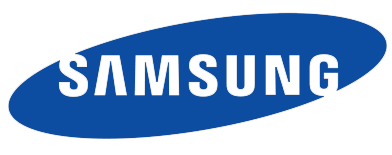
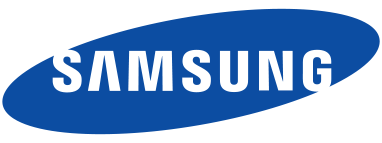
Fixed sponsors and IE problem

Changed region(s): [[0.0, 0.0559, 1.0, 0.951], [0.0576, 0.4755, 0.0864, 0.5315]]

diff --git a/js/angular/modules/schedule_glance.js b/js/angular/modules/schedule_glance.js
@@ -6,10 +6,6 @@ angular.module('chi2015_controllers').controller("schedule_glance_controller",
 
     }
 
-    var m_names = new Array("January", "February", "March", 
-                            "April", "May", "June", "July", "August", "September", 
-                            "October", "November", "December");
-
     start();
     function start(){
       schedule_glance_factory.get({}, 
@@ -43,8 +39,8 @@ angular.module('chi2015_controllers').controller("schedule_glance_controller",
             }
 
             if (data[i][2].trim()!="") {
-              var orig_date = new Date(data[i][2]);
-              date = m_names[orig_date.getMonth()] + " " + orig_date.getDate() +", " + orig_date.getFullYear();           
+              date = data[i][2]
+              //date = m_names[orig_date.getMonth()] + " " + orig_date.getDate() +", " + orig_date.getFullYear();           
             }
             if (!$scope.schedule[day].date) $scope.schedule[day].date = date
 

diff --git a/sponsoring/sponsors-of-chi2015.php b/sponsoring/sponsors-of-chi2015.php
@@ -9,7 +9,7 @@
   <p>Be a sponsor for CHI 2015! See instructions on <a href="/sponsoring/">sponsorship</a>.</p>
 
   <h4 id="hero">Hero</h4>
-    <div class="sponsor"><a href="http://samsung.com/" target="_blank"><img width="350" alt="Samsung" title="Sponsored by Samsung" src="<?php echo $prefix; ?>/img/sponsors/samsung3.png" border="0"></a></div>
+    <div class="sponsor"><a href="http://samsung.com/" target="_blank"><img width="350" alt="Samsung" title="Sponsored by Samsung" src="<?php echo $prefix; ?>/img/sponsors/samsung4.png" border="0"></a></div>
   <h4 id="champions">Champions</h4>
 
     <div class="sponsor"><a href="http://golfsimulator.golfzon.com/" target="_blank"><img width="240" alt="GolfZon" title="Sponsored by GolfZon" src="<?php echo $prefix; ?>/img/sponsors/golfzon.png" border="0"></a></div>

diff --git a/rightbar.php b/rightbar.php
@@ -2,7 +2,7 @@
     <div class="sponsor-list" style="padding-left: 0; padding-bottom: 0">
         <p>
             <a class="sLink" href="http://samsung.com/" target="_blank">
-            <img alt="Samnsung" title="Sponsored by Samnsung" width="230px" src="<?php echo $prefix; ?>/img/sponsors/samsung3.png">
+            <img alt="Samnsung" title="Sponsored by Samnsung" width="230px" src="<?php echo $prefix; ?>/img/sponsors/samsung4.png">
             </a>
         </p>
     </div>
